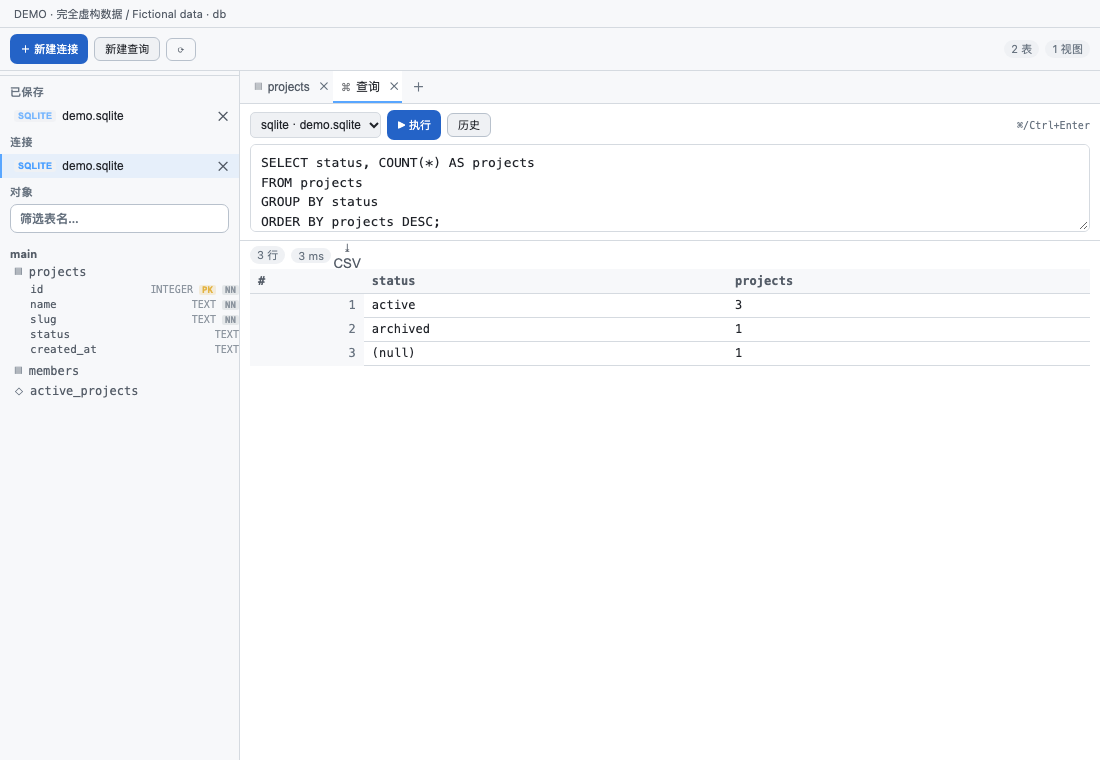
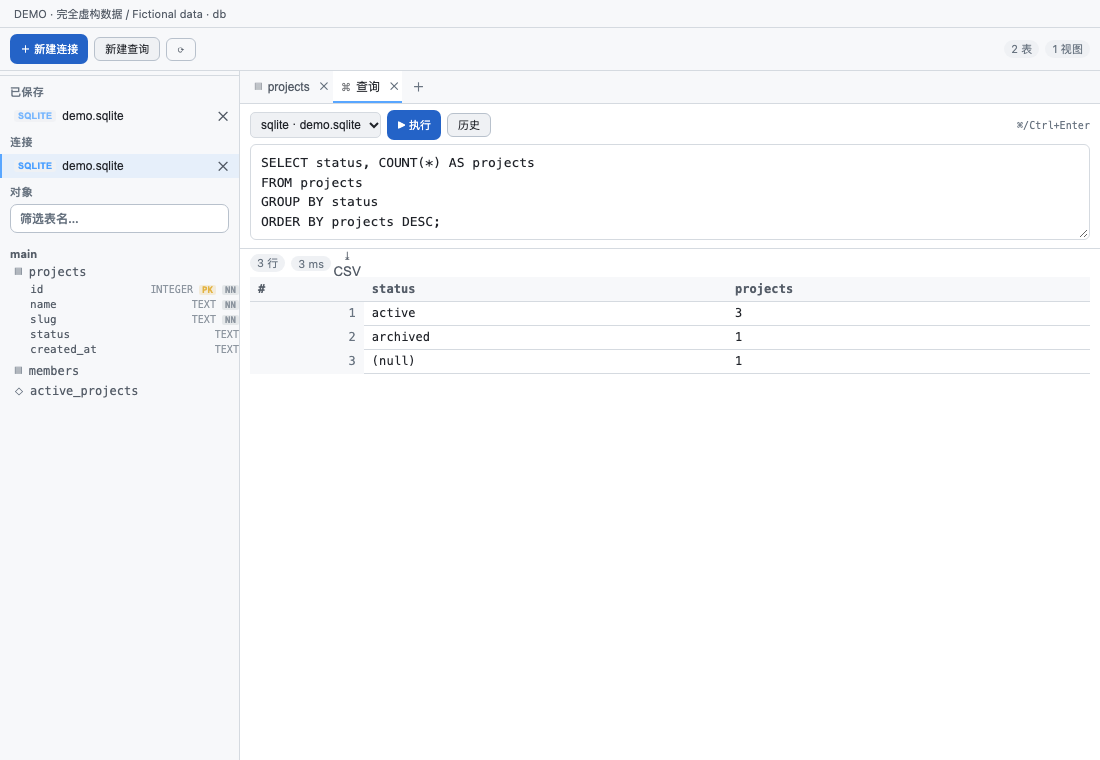
feat(ui): the RPC body and SQL editor grow with their content

Changed region(s): [[0.2164, 0.3026, 1.0, 0.3934], [0.3091, 0.3632, 0.4018, 0.4842], [0.6491, 0.3632, 0.7418, 0.4842]]

diff --git a/client.js b/client.js
@@ -8835,12 +8835,16 @@ var CSS2 = `
 .cerpc-file{font-size:10px;color:var(--dsw-alias-label-tertiary,#667);font-family:ui-monospace,SFMono-Regular,Menlo,monospace;overflow:hidden;text-overflow:ellipsis;white-space:nowrap}
 .cerpc-main{flex:1;min-width:0;display:flex;flex-direction:column;overflow:hidden}
 .cerpc-pane{flex:1;min-height:0;display:flex;flex-direction:column;overflow:hidden}
+.cerpc-request{flex:0 0 auto;overflow:visible}
+.cerpc-response{flex:1 1 auto}
 .cerpc-response{border-top:.5px solid var(--dsw-alias-border-l1,#333);background:var(--dsw-alias-bg-base,#141618)}
 .cerpc-pane-head{flex:none;display:flex;align-items:center;gap:6px;padding:5px 10px;font-size:11px;color:var(--dsw-alias-label-tertiary,#889);min-height:26px;flex-wrap:wrap}
 .cerpc-pane-title{font-weight:600;color:var(--dsw-alias-label-secondary,#aab)}
 .cerpc-inline{display:flex;align-items:center;gap:4px;font-size:11px;cursor:pointer}
 .cerpc-timeout{width:70px;height:22px;font-size:11px;padding:0 4px}
-.cerpc-json{min-height:70px;max-height:26vh}
+/* The request pane is content-sized: the body grows with the message, the
+   response keeps whatever is left, and the ceiling keeps the split usable. */
+.cerpc-json{min-height:96px;max-height:52vh;overflow:auto;resize:vertical}
 .cerpc-json-bad{border-color:var(--dsw-alias-state-error-primary,#f85149) !important}
 .cerpc-json-error{padding:0 10px 6px;font-size:11px;color:var(--dsw-alias-state-error-primary,#f85149);font-family:ui-monospace,SFMono-Regular,Menlo,monospace}
 .cerpc-meta-head{flex:none;display:flex;align-items:center;gap:8px;padding:4px 10px}
@@ -12701,6 +12705,18 @@ function migrateLegacyRpcTabs({
   return count;
 }
 
+// src/client/autosize.js
+function useAutoHeight(ref, value, options = {}) {
+  const min = Number(options.min) > 0 ? Number(options.min) : 96;
+  const extra = Number(options.extra) >= 0 ? Number(options.extra) : 2;
+  useEffect(() => {
+    const node = ref?.current;
+    if (!node || typeof node.style !== "object" || typeof node.scrollHeight !== "number") return;
+    node.style.height = "auto";
+    node.style.height = `${Math.max(min, node.scrollHeight + extra)}px`;
+  }, [value, min, extra]);
+}
+
 // src/client/dbconnect.js
 var DRIVERS = ["sqlite", "mysql", "postgres"];
 var DEFAULT_PORT = { mysql: 3306, postgres: 5432 };
@@ -12860,6 +12876,8 @@ function DbView({ t, useTabInfo, sessionId, useSessions }) {
     void probeDrivers();
   }, [probeDrivers]);
   const activeTab = tabs.find((tab) => tab.id === activeTabId) ?? null;
+  const sqlRef = useRef(null);
+  useAutoHeight(sqlRef, activeTab?.sql ?? "", { min: 88 });
   const patchTab = useCallback((id, patch) => {
     setTabs((current) => current.map((tab) => tab.id === id ? { ...tab, ...typeof patch === "function" ? patch(tab) : patch } : tab));
   }, []);
@@ -13347,6 +13365,8 @@ function DbView({ t, useTabInfo, sessionId, useSessions }) {
               ),
               h("textarea", {
                 className: "cedb-sql",
+                ref: sqlRef,
+                rows: 4,
                 value: activeTab.sql ?? "",
                 placeholder: t("db.sqlPlaceholder"),
                 spellCheck: false,
@@ -13704,6 +13724,7 @@ function RpcView({ t, useTabInfo, sessionId, useSessions, incoming }) {
   const [protoFiles, setProtoFiles] = useState([]);
   const [protoBusy, setProtoBusy] = useState(false);
   const [schemaId, setSchemaId] = useState("");
+  const requestRef = useRef(null);
   const [selected, setSelected] = useState("");
   const [requestText, setRequestText] = useState("{}");
   const [metadata, setMetadata] = useState([]);
@@ -13777,6 +13798,7 @@ function RpcView({ t, useTabInfo, sessionId, useSessions, incoming }) {
   const selectedMethod = useMemo(() => methods.find((method) => method.path === selected) ?? null, [methods, selected]);
   const groups = useMemo(() => groupMethods(methods), [methods]);
   const request = useMemo(() => parseJsonText(requestText), [requestText]);
+  useAutoHeight(requestRef, requestText, { min: 96 });
   const loadProto = useCallback(async () => {
     const path = protoPath.trim();
     if (path === "") {
@@ -14040,6 +14062,8 @@ function RpcView({ t, useTabInfo, sessionId, useSessions, incoming }) {
           ),
           h("textarea", {
             className: `cedb-sql cerpc-json${request.error ? " cerpc-json-bad" : ""}`,
+            ref: requestRef,
+            rows: 6,
             value: requestText,
             spellCheck: false,
             onChange: (event) => setRequestText(event.target.value)

diff --git a/src/client/rpc.js b/src/client/rpc.js
@@ -12,8 +12,9 @@
  * so this component owns state and layout only.
  */
 
-import { Fragment, h, useCallback, useEffect, useMemo, useState } from "./react.js";
+import { Fragment, h, useCallback, useEffect, useMemo, useRef, useState } from "./react.js";
 import { api } from "./api.js";
+import { useAutoHeight } from "./autosize.js";
 import { RPC_TAB_ID, RPC_TAB_KIND } from "./constants.js";
 import { apiKey, migrateLegacyApiStores } from "./apistore.js";
 import { activeVariables, entryLabel, filterByProtocol, HISTORY_CAP, interpolateDeep, interpolateVariables, withProtocol } from "./apientries.js";
@@ -69,6 +70,8 @@ export function RpcView({ t, useTabInfo, sessionId, useSessions, incoming }) {
 	// Set when the methods came from server reflection instead of a file: the
 	// call then carries this id rather than a .proto path.
 	const [schemaId, setSchemaId] = useState("");
+	// The request body grows with its content instead of living in a 70px box.
+	const requestRef = useRef(null);
 	const [selected, setSelected] = useState(""); // method path
 	const [requestText, setRequestText] = useState("{}");
 	const [metadata, setMetadata] = useState([]);
@@ -156,6 +159,7 @@ export function RpcView({ t, useTabInfo, sessionId, useSessions, incoming }) {
 	const selectedMethod = useMemo(() => methods.find((method) => method.path === selected) ?? null, [methods, selected]);
 	const groups = useMemo(() => groupMethods(methods), [methods]);
 	const request = useMemo(() => parseJsonText(requestText), [requestText]);
+	useAutoHeight(requestRef, requestText, { min: 96 });
 
 	const loadProto = useCallback(async () => {
 		const path = protoPath.trim();
@@ -394,6 +398,8 @@ export function RpcView({ t, useTabInfo, sessionId, useSessions, incoming }) {
 					),
 					h("textarea", {
 						className: `cedb-sql cerpc-json${request.error ? " cerpc-json-bad" : ""}`,
+						ref: requestRef,
+						rows: 6,
 						value: requestText,
 						spellCheck: false,
 						onChange: (event) => setRequestText(event.target.value),

diff --git a/src/client/styles.js b/src/client/styles.js
@@ -516,12 +516,16 @@ export const CSS = `
 .cerpc-file{font-size:10px;color:var(--dsw-alias-label-tertiary,#667);font-family:ui-monospace,SFMono-Regular,Menlo,monospace;overflow:hidden;text-overflow:ellipsis;white-space:nowrap}
 .cerpc-main{flex:1;min-width:0;display:flex;flex-direction:column;overflow:hidden}
 .cerpc-pane{flex:1;min-height:0;display:flex;flex-direction:column;overflow:hidden}
+.cerpc-request{flex:0 0 auto;overflow:visible}
+.cerpc-response{flex:1 1 auto}
 .cerpc-response{border-top:.5px solid var(--dsw-alias-border-l1,#333);background:var(--dsw-alias-bg-base,#141618)}
 .cerpc-pane-head{flex:none;display:flex;align-items:center;gap:6px;padding:5px 10px;font-size:11px;color:var(--dsw-alias-label-tertiary,#889);min-height:26px;flex-wrap:wrap}
 .cerpc-pane-title{font-weight:600;color:var(--dsw-alias-label-secondary,#aab)}
 .cerpc-inline{display:flex;align-items:center;gap:4px;font-size:11px;cursor:pointer}
 .cerpc-timeout{width:70px;height:22px;font-size:11px;padding:0 4px}
-.cerpc-json{min-height:70px;max-height:26vh}
+/* The request pane is content-sized: the body grows with the message, the
+   response keeps whatever is left, and the ceiling keeps the split usable. */
+.cerpc-json{min-height:96px;max-height:52vh;overflow:auto;resize:vertical}
 .cerpc-json-bad{border-color:var(--dsw-alias-state-error-primary,#f85149) !important}
 .cerpc-json-error{padding:0 10px 6px;font-size:11px;color:var(--dsw-alias-state-error-primary,#f85149);font-family:ui-monospace,SFMono-Regular,Menlo,monospace}
 .cerpc-meta-head{flex:none;display:flex;align-items:center;gap:8px;padding:4px 10px}

diff --git a/src/client/db.js b/src/client/db.js
@@ -18,6 +18,7 @@
 
 import { Fragment, h, useCallback, useEffect, useMemo, useRef, useState } from "./react.js";
 import { api } from "./api.js";
+import { useAutoHeight } from "./autosize.js";
 import { DRIVERS, driverLabel, parseConnectionAddress } from "./dbconnect.js";
 import { useDismissLayer } from "./dismiss.js";
 import { DB_TAB_KIND, DB_TAB_ID } from "./constants.js";
@@ -156,6 +157,9 @@ export function DbView({ t, useTabInfo, sessionId, useSessions }) {
 	useEffect(() => { void probeDrivers(); }, [probeDrivers]);
 
 	const activeTab = tabs.find((tab) => tab.id === activeTabId) ?? null;
+	// A long statement should not be read through an 88px slot.
+	const sqlRef = useRef(null);
+	useAutoHeight(sqlRef, activeTab?.sql ?? "", { min: 88 });
 
 	const patchTab = useCallback((id, patch) => {
 		setTabs((current) => current.map((tab) => (tab.id === id ? { ...tab, ...(typeof patch === "function" ? patch(tab) : patch) } : tab)));
@@ -636,6 +640,8 @@ export function DbView({ t, useTabInfo, sessionId, useSessions }) {
 									),
 									h("textarea", {
 										className: "cedb-sql",
+										ref: sqlRef,
+										rows: 4,
 										value: activeTab.sql ?? "",
 										placeholder: t("db.sqlPlaceholder"),
 										spellCheck: false,

diff --git a/src/client/autosize.js b/src/client/autosize.js
@@ -1,0 +1,28 @@
+/* ---------------- textareas that grow with their content ----------------
+ *
+ * A JSON body or a SQL statement is as long as it is; a fixed 70px box shows
+ * four lines of a forty-line message and wastes the rest of the pane. This hook
+ * measures the content and sets the element's height, leaving the ceiling to CSS
+ * (`max-height`) so the split with the pane below is never broken.
+ */
+
+import { useEffect } from "./react.js";
+
+/**
+ * Keep a textarea's height equal to its content.
+ *
+ * @param ref - ref whose `current` is the textarea
+ * @param value - the controlled value; a change re-measures
+ * @param options - `{ min }` px floor (default 96), `extra` px of slack
+ */
+export function useAutoHeight(ref, value, options = {}) {
+	const min = Number(options.min) > 0 ? Number(options.min) : 96;
+	const extra = Number(options.extra) >= 0 ? Number(options.extra) : 2;
+	useEffect(() => {
+		const node = ref?.current;
+		if (!node || typeof node.style !== "object" || typeof node.scrollHeight !== "number") return;
+		// `auto` first: without it scrollHeight can only grow, never shrink.
+		node.style.height = "auto";
+		node.style.height = `${Math.max(min, node.scrollHeight + extra)}px`;
+	}, [value, min, extra]);
+}

diff --git a/CHANGELOG.md b/CHANGELOG.md
@@ -1,5 +1,14 @@
 # Changelog
 
+## Unreleased — editors grow with their content
+
+The RPC request body was a fixed 70px box: a forty-line JSON message was read four lines at a time while most of the pane sat empty, and the metadata/actions were pushed around by nothing in particular.
+
+- **`useAutoHeight`** ([src/client/autosize.js](<src/client/autosize.js>)) measures the textarea and sets its height from `scrollHeight` after every change, with a floor (96px for a message, 88px for SQL) and the ceiling left to CSS (`max-height:52vh`), so the pane below keeps its space. `resize: vertical` still works for a manual adjustment.
+- The RPC pane is now content-sized (`flex:0 0 auto`) and the response takes the remainder, so a long message pushes results down instead of being clipped.
+- The database SQL editor gets the same treatment — it had the same fixed-slot problem.
+- Regressions: a long message grows past the floor, a short one keeps it.
+
 ## Unreleased — driver architecture: a catalog, and the module ladder it implies
 
 [The design](<docs/driver-architecture.md>) answers the question "why not just copy dbx": its drivers are Rust crates compiled into a Tauri binary, ours is a JS plugin that must ship as one npm package. The answer is a three-rung ladder per logical driver — **embedded (node:sqlite) → project module (mysql2/pg) → CLI client** — with one contract and a capability table the panel reads.
